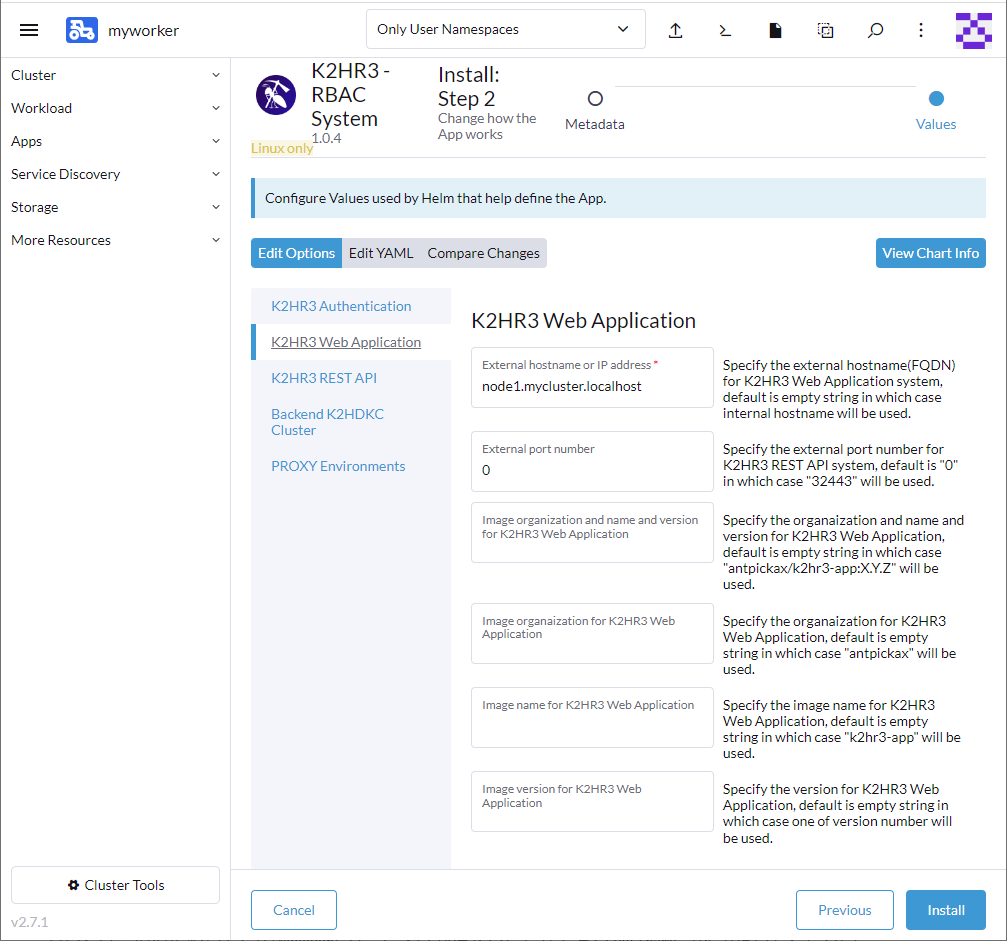
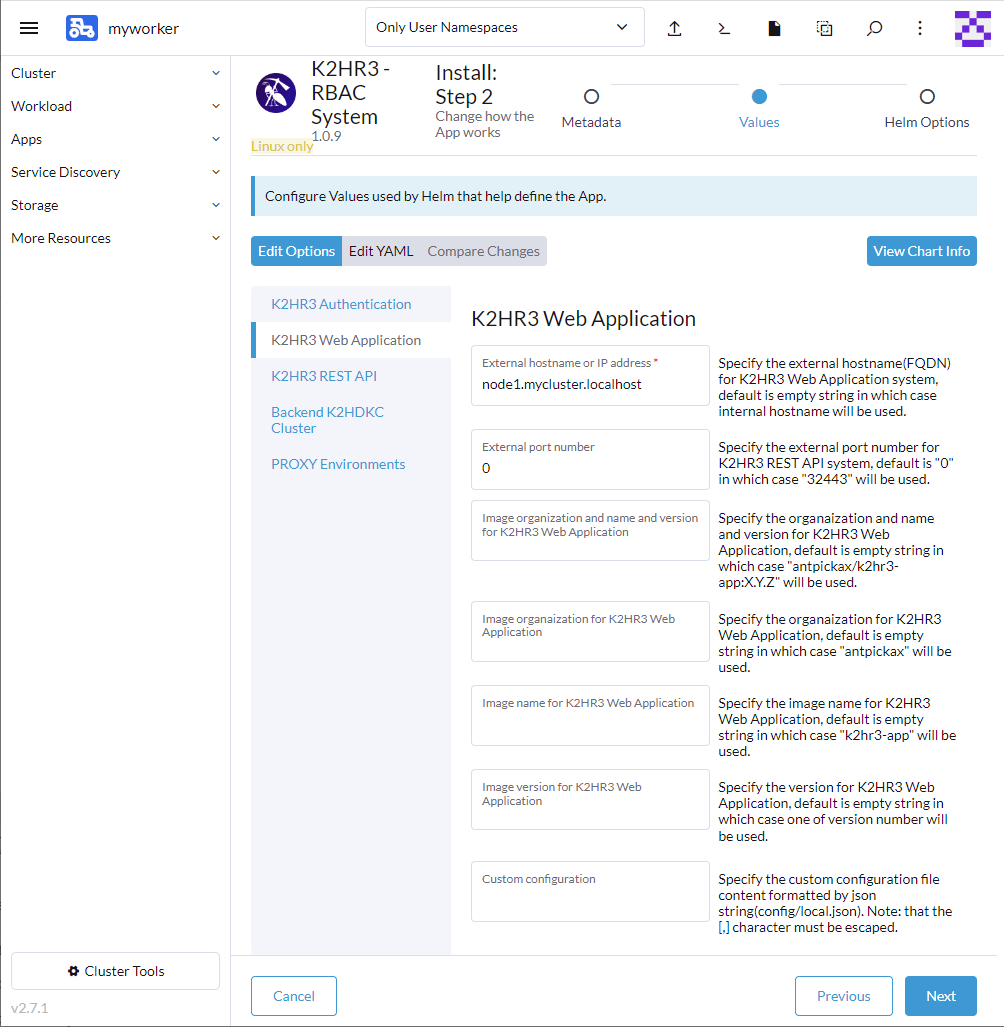
[gh-pages] Updated description for Helm Charts

diff --git a/helm_chart.md b/helm_chart.md
@@ -64,10 +64,12 @@ Below is a list of the options offered by the **K2HR3 Helm Chart**.
 | `k2hr3.api.count`            |              | 2                                                      |
 | `k2hr3.api.extHostname`      |              | ""                                                     |
 | `k2hr3.api.extPort`          |              | 0                                                      |
+| `k2hr3.api.customConf`       |              | ""                                                     |
 | `k2hr3.app.baseName`         |              | ""                                                     |
 | `k2hr3.app.count`            |              | 2                                                      |
 | `k2hr3.app.extHostname`      |              | ""                                                     |
 | `k2hr3.app.extPort`          |              | 0                                                      |
+| `k2hr3.app.customConf`       |              | ""                                                     |
 | `k2hr3.env.httpProxy`        |              | ""                                                     |
 | `k2hr3.env.httpsProxy`       |              | ""                                                     |
 | `k2hr3.env.noProxy`          |              | ""                                                     |
@@ -181,6 +183,11 @@ If you are using `minikube`, be sure to specify the host name that run `minikube
 Specifies the port number for access from outside the kubernetes cluster to the REST API server on the K2HR3 system.  
 If this option is omitted, it will be used `0` and the `31443` port will be used.  
 
+### k2hr3.api.customConf
+Specify the contents of the `local.json` file, which is one of the configuration files for the REST API server of the K2HR3 system, and overwrite the default configuration values.  
+Specify the value in `JSON String` format.  
+If this option is omitted, the `local.json` file will not be used.  
+
 ### k2hr3.app.baseName
 Specifies the base name of the Web Application server for the K2HR3 system.  
 If this option is omitted, it will be used empty string and `r3app` will be used.  
@@ -198,6 +205,11 @@ If you are using `minikube`, be sure to specify the host name that run `minikube
 ### k2hr3.app.extPort
 Specifies the port number for access from outside the kubernetes cluster to the Web Application server on the K2HR3 system.  
 If this option is omitted, it will be used `0` and the `32443` port will be used.  
+
+### k2hr3.app.customConf
+Specify the contents of the `local.json` file, which is one of the configuration files for the Web Application server of the K2HR3 system, and overwrite the default configuration values.  
+Specify the value in `JSON String` format.  
+If this option is omitted, the `local.json` file will not be used.  
 
 ### k2hr3.env.httpProxy
 Specifies `HTTP_PROXY` environment in each K2HR3 system component(K2HR3 Web Appilcation / K2HR3 REST API / K2HDKC cluster) when building the K2HR3 system.  

diff --git a/rancher_helm_chart.md b/rancher_helm_chart.md
@@ -146,6 +146,9 @@ By default, the image `antpickax/k2hr3-app:X.Y.Z` is used.
 This page allows you to change this `Docker image` to any image.  
 When changing images, you can set the organization name, image name, and image tag all at once, or specify them individually.  
 
+If you want to change the default settings of `K2HR3 Web Application`, you can specify `Custom Configuration` field as `local.json` to overwrite default configuration.  
+This value is specified by `JSON String`.  
+
 After entering the required items, the setting of this `K2HR3 Web Application` item is completed.  
 
 #### K2HR3 REST API
@@ -166,6 +169,9 @@ Alternatively, set the `Hostname` that can reach this `NodePort` service accordi
 By default, the image `antpickax/k2hr3-api:X.Y.Z` is used.  
 This page allows you to change this `Docker image` to any image.  
 When changing images, you can set the organization name, image name, and image tag all at once, or specify them individually.  
+
+If you want to change the default settings of `K2HR3 REST API`, you can specify `Custom Configuration` field as `local.json` to overwrite default configuration.  
+This value is specified by `JSON String`.  
 
 After entering the required items, the setting of this `K2HR3 REST API` item is completed.  
 

diff --git a/whatnew.md b/whatnew.md
@@ -14,6 +14,8 @@ next_string: Detail
 ---
 
 # What's new
+## [21 Jun 2023] K2HR3 API/APP/Helm Chart updated
+The source code of K2HR3 API (Version 1.0.24) and K2HR3 APP (Version 1.0.20) and K2HR3 Helm Chart (Version 1.0.9) has been released on Github.com.  
 
 ## [1 Jun 2023] K2HR3 API/APP/Helm Chart updated
 The source code of K2HR3 API (Version 1.0.23) and K2HR3 APP (Version 1.0.19) and K2HR3 Helm Chart (Version 1.0.6) has been released on Github.com.  

diff --git a/whatnewja.md b/whatnewja.md
@@ -14,6 +14,9 @@ next_string: Detail
 ---
 
 # What's new
+## 2023年6月21日
+K2HR3 API (Version 1.0.24)、K2HR3 APP (Version 1.0.20)、K2HR3 Helm Chart (Version 1.0.9) をリリースし、Github.comで公開しました。  
+
 ## 2023年6月1日
 K2HR3 API (Version 1.0.23)、K2HR3 APP (Version 1.0.19)、K2HR3 Helm Chart (Version 1.0.6) をリリースし、Github.comで公開しました。  
 
